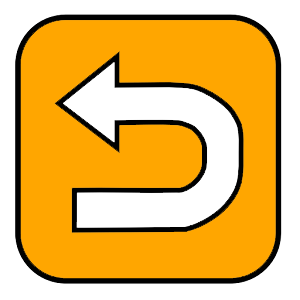
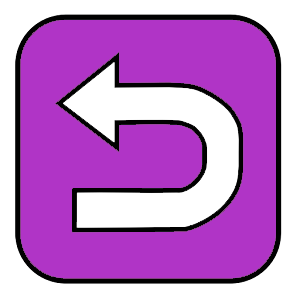
color scheme

diff --git a/Papa Troll/GlobalFunctions.swift b/Papa Troll/GlobalFunctions.swift
@@ -7,22 +7,35 @@
 //
 
 import SpriteKit
-var titleLabel = SKLabelNode()
 
-func setTitle(title: String, currScene: SKScene, color:UIColor = .white) {
+var titleLabel1 = SKLabelNode()
+var titleLabel2 = SKLabelNode()
+
+func setTitle(title: String, currScene: SKScene, color:UIColor = customPurple, color2: UIColor = customGreen) {
     
     //remove any existing title label
-    titleLabel.removeFromParent()
+    titleLabel1.removeFromParent()
+    titleLabel2.removeFromParent()
     
-    //set new title label
-    titleLabel.text = title
-    titleLabel.fontName = trollFont
-    titleLabel.fontColor = color
-    titleLabel.name = "titleLabel"
-    titleLabel.zPosition = 3
-    titleLabel.position = CGPoint(x: currScene.size.width/2, y: currScene.size.height * 0.90)
+    //set new title label with shadow
+    titleLabel1.text = title
+    titleLabel1.fontName = trollFont
+    titleLabel1.fontColor = color
+    titleLabel1.name = "titleLabel"
+    titleLabel1.zPosition = 3
+    titleLabel1.position = CGPoint(x: currScene.size.width/2, y: currScene.size.height * 0.90)
     
-    currScene.addChild(titleLabel)
+    currScene.addChild(titleLabel1)
+    
+    titleLabel2.text = title
+    titleLabel2.fontName = trollFont
+    titleLabel2.fontColor = color2
+    titleLabel2.alpha = 0.6
+    titleLabel2.name = "titleLabel"
+    titleLabel2.zPosition = 2
+    titleLabel2.position = CGPoint(x: currScene.size.width * 0.49, y: currScene.size.height * 0.89)
+    
+    currScene.addChild(titleLabel2)
 }
 
 func newLabel(title: String, size: CGFloat, color:UIColor = customOrange) -> SKLabelNode{

diff --git a/Papa Troll/MenuScene.swift b/Papa Troll/MenuScene.swift
@@ -10,7 +10,7 @@ import SpriteKit
 
 class MenuScene: SKScene {
     
-    let backButton = SKSpriteNode(imageNamed: "backButton.png")
+    let backButton = SKSpriteNode(imageNamed: "backButton2.png")
     var levelNumber: SKLabelNode!
     var levelLabel: SKLabelNode!
     let downArrow = SKSpriteNode(imageNamed: "downArrow.png")
@@ -24,7 +24,7 @@ class MenuScene: SKScene {
     override func didMove(to view: SKView) {
         
         activeScene = self
-        setTitle(title: "Menu", currScene: self, color: customOrange)
+        setTitle(title: "Menu", currScene: self, color: customOrange, color2: .gray)
         setButtons()
         backgroundColor = .white
     }

diff --git a/Papa Troll/GlobalData.swift b/Papa Troll/GlobalData.swift
@@ -21,6 +21,8 @@ var scale:CGFloat = 0.0
 
 let customBlue = UIColor(red: 58/255, green: 120/255, blue: 192/255, alpha: 1.0)
 let customOrange = UIColor(red: 255/255, green: 166/255, blue: 0/255, alpha: 1.0)
+let customPurple = UIColor(red: 176/255, green: 52/255, blue: 198/255, alpha: 1.0)
+let customGreen = UIColor(red: 73/255, green: 175/255, blue: 93/255, alpha: 1.0)
 
 var level = 1
 var highLevel = 1

diff --git a/Papa Troll/MainScene.swift b/Papa Troll/MainScene.swift
@@ -17,9 +17,10 @@ class MainScene: SKScene {
 
         activeScene = self
         setScale()
-        setTitle(title: "Papa Troll", currScene: self, color: customOrange)
+        setTitle(title: "Papa Troll", currScene: self, color: customPurple)
         setButtons()
-        setBackground()
+        //setBackground()
+        backgroundColor = .white
         checkForNewInstall()
     }
     
